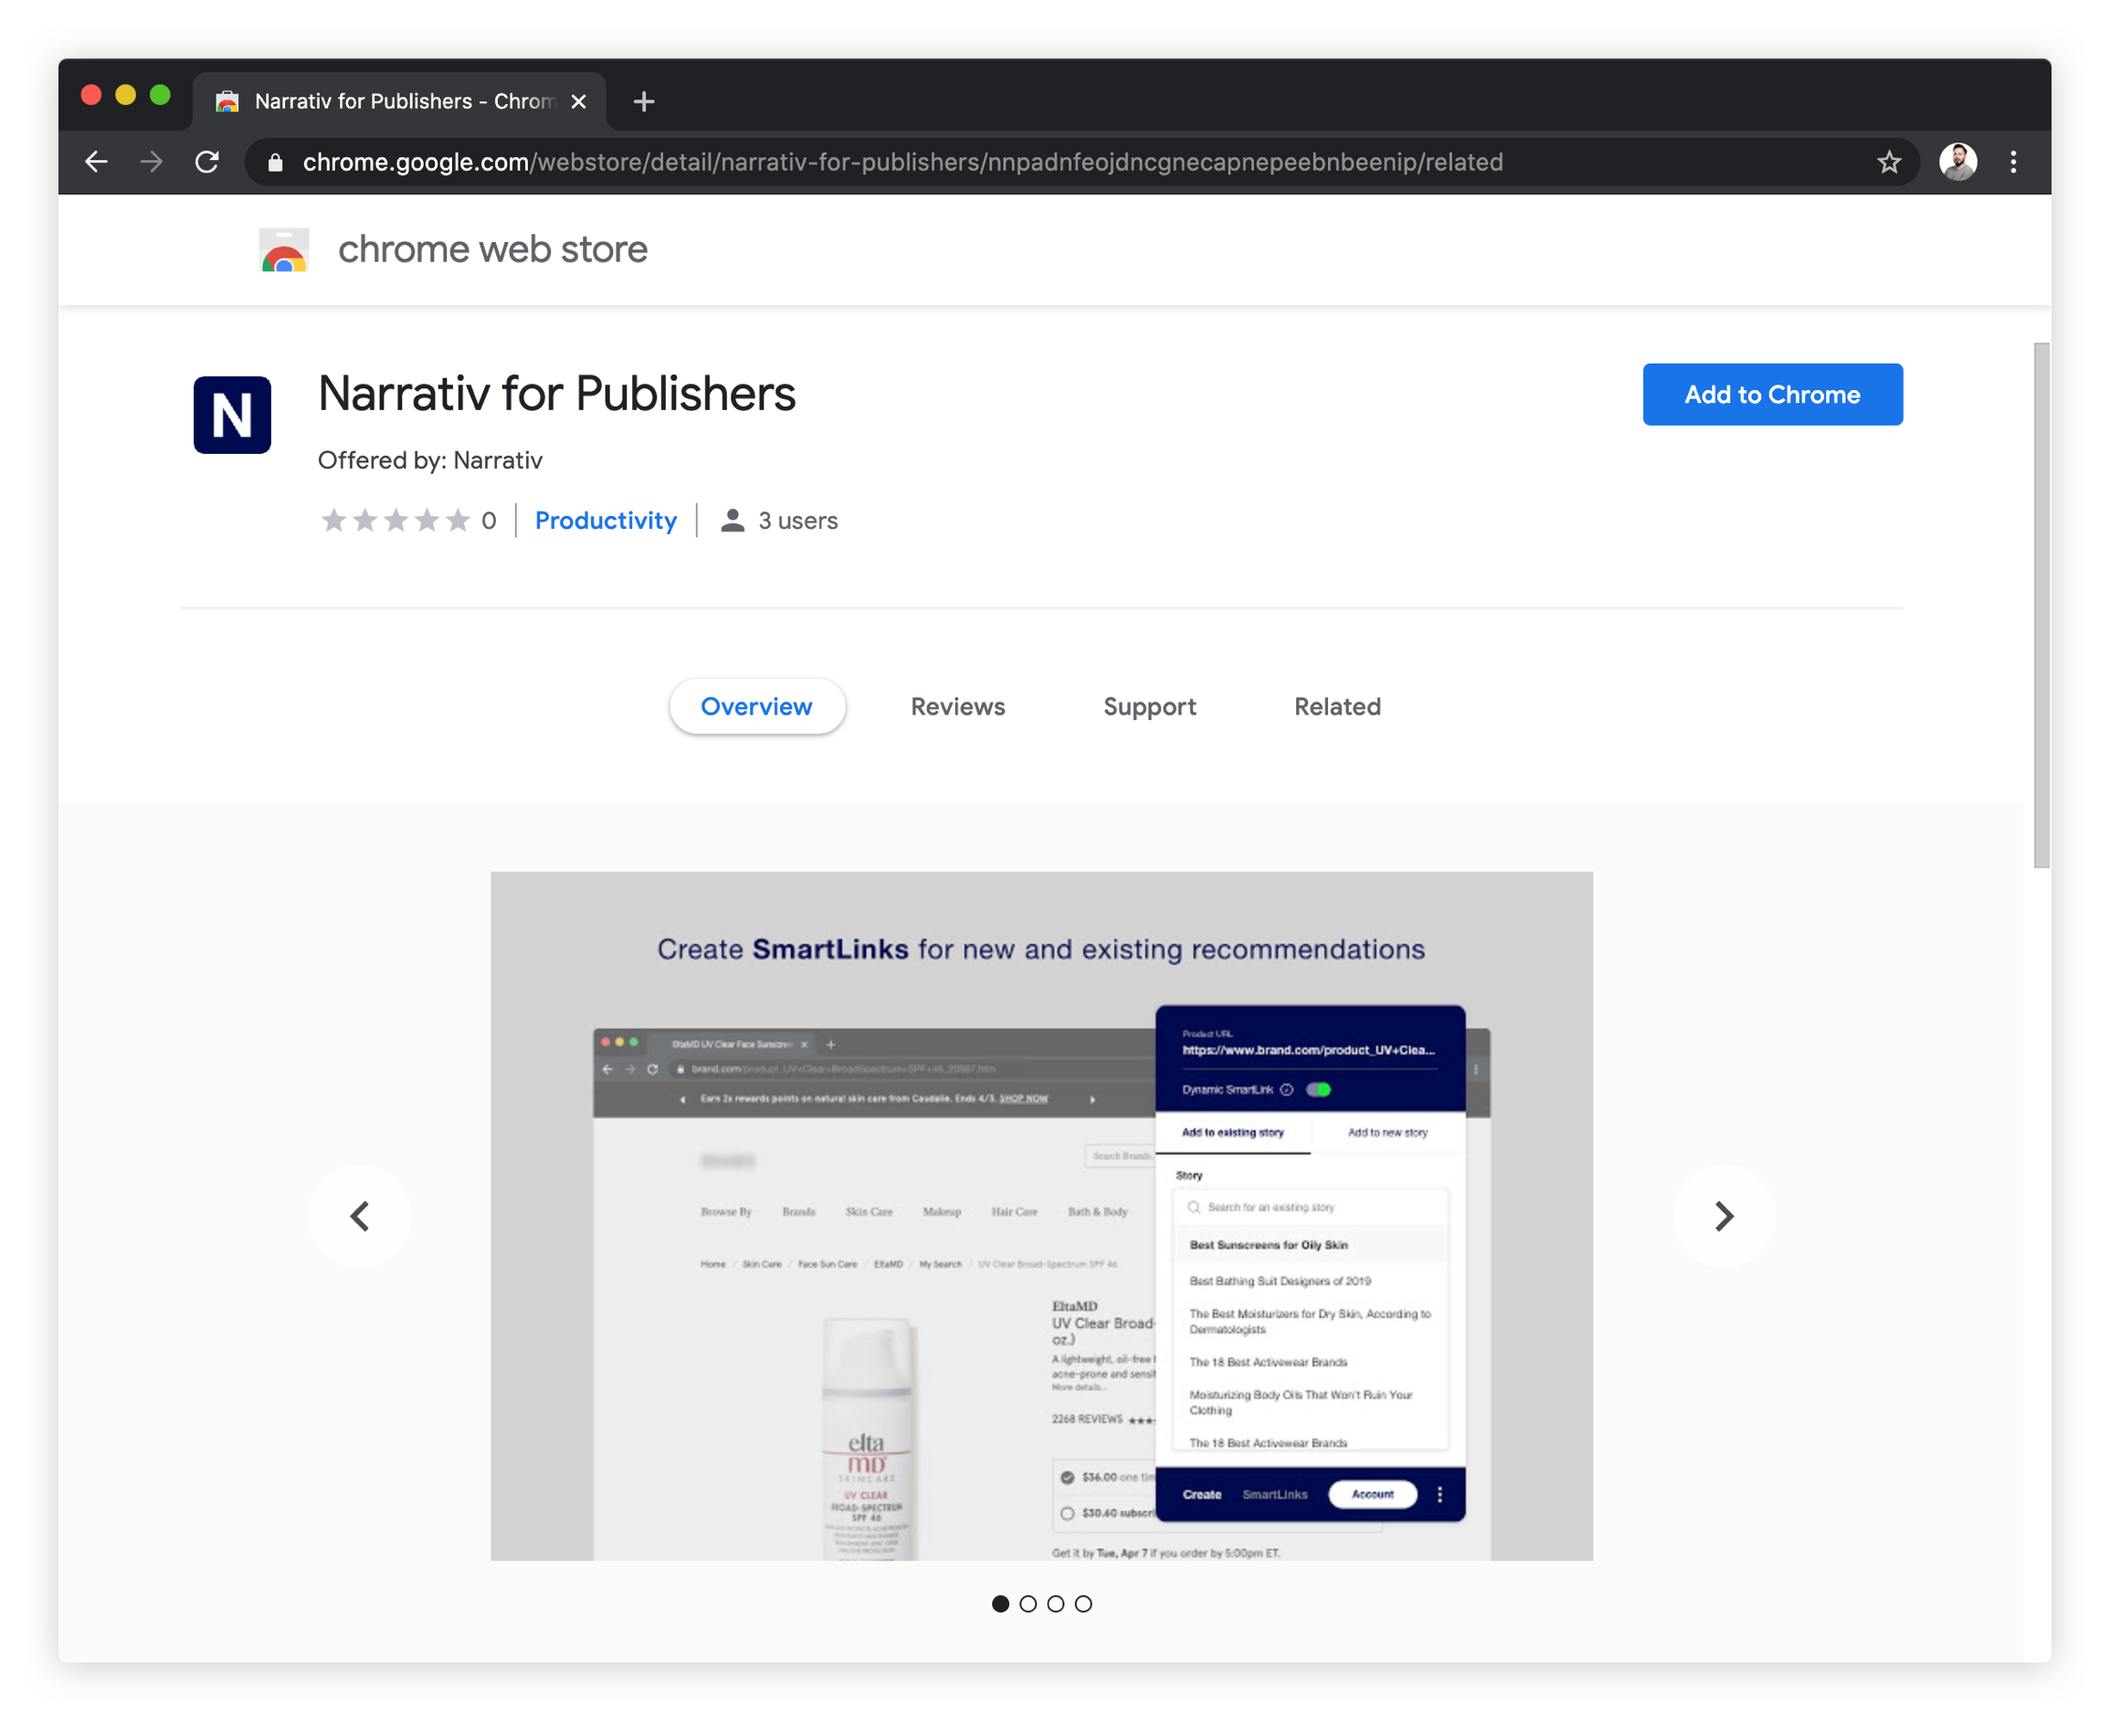
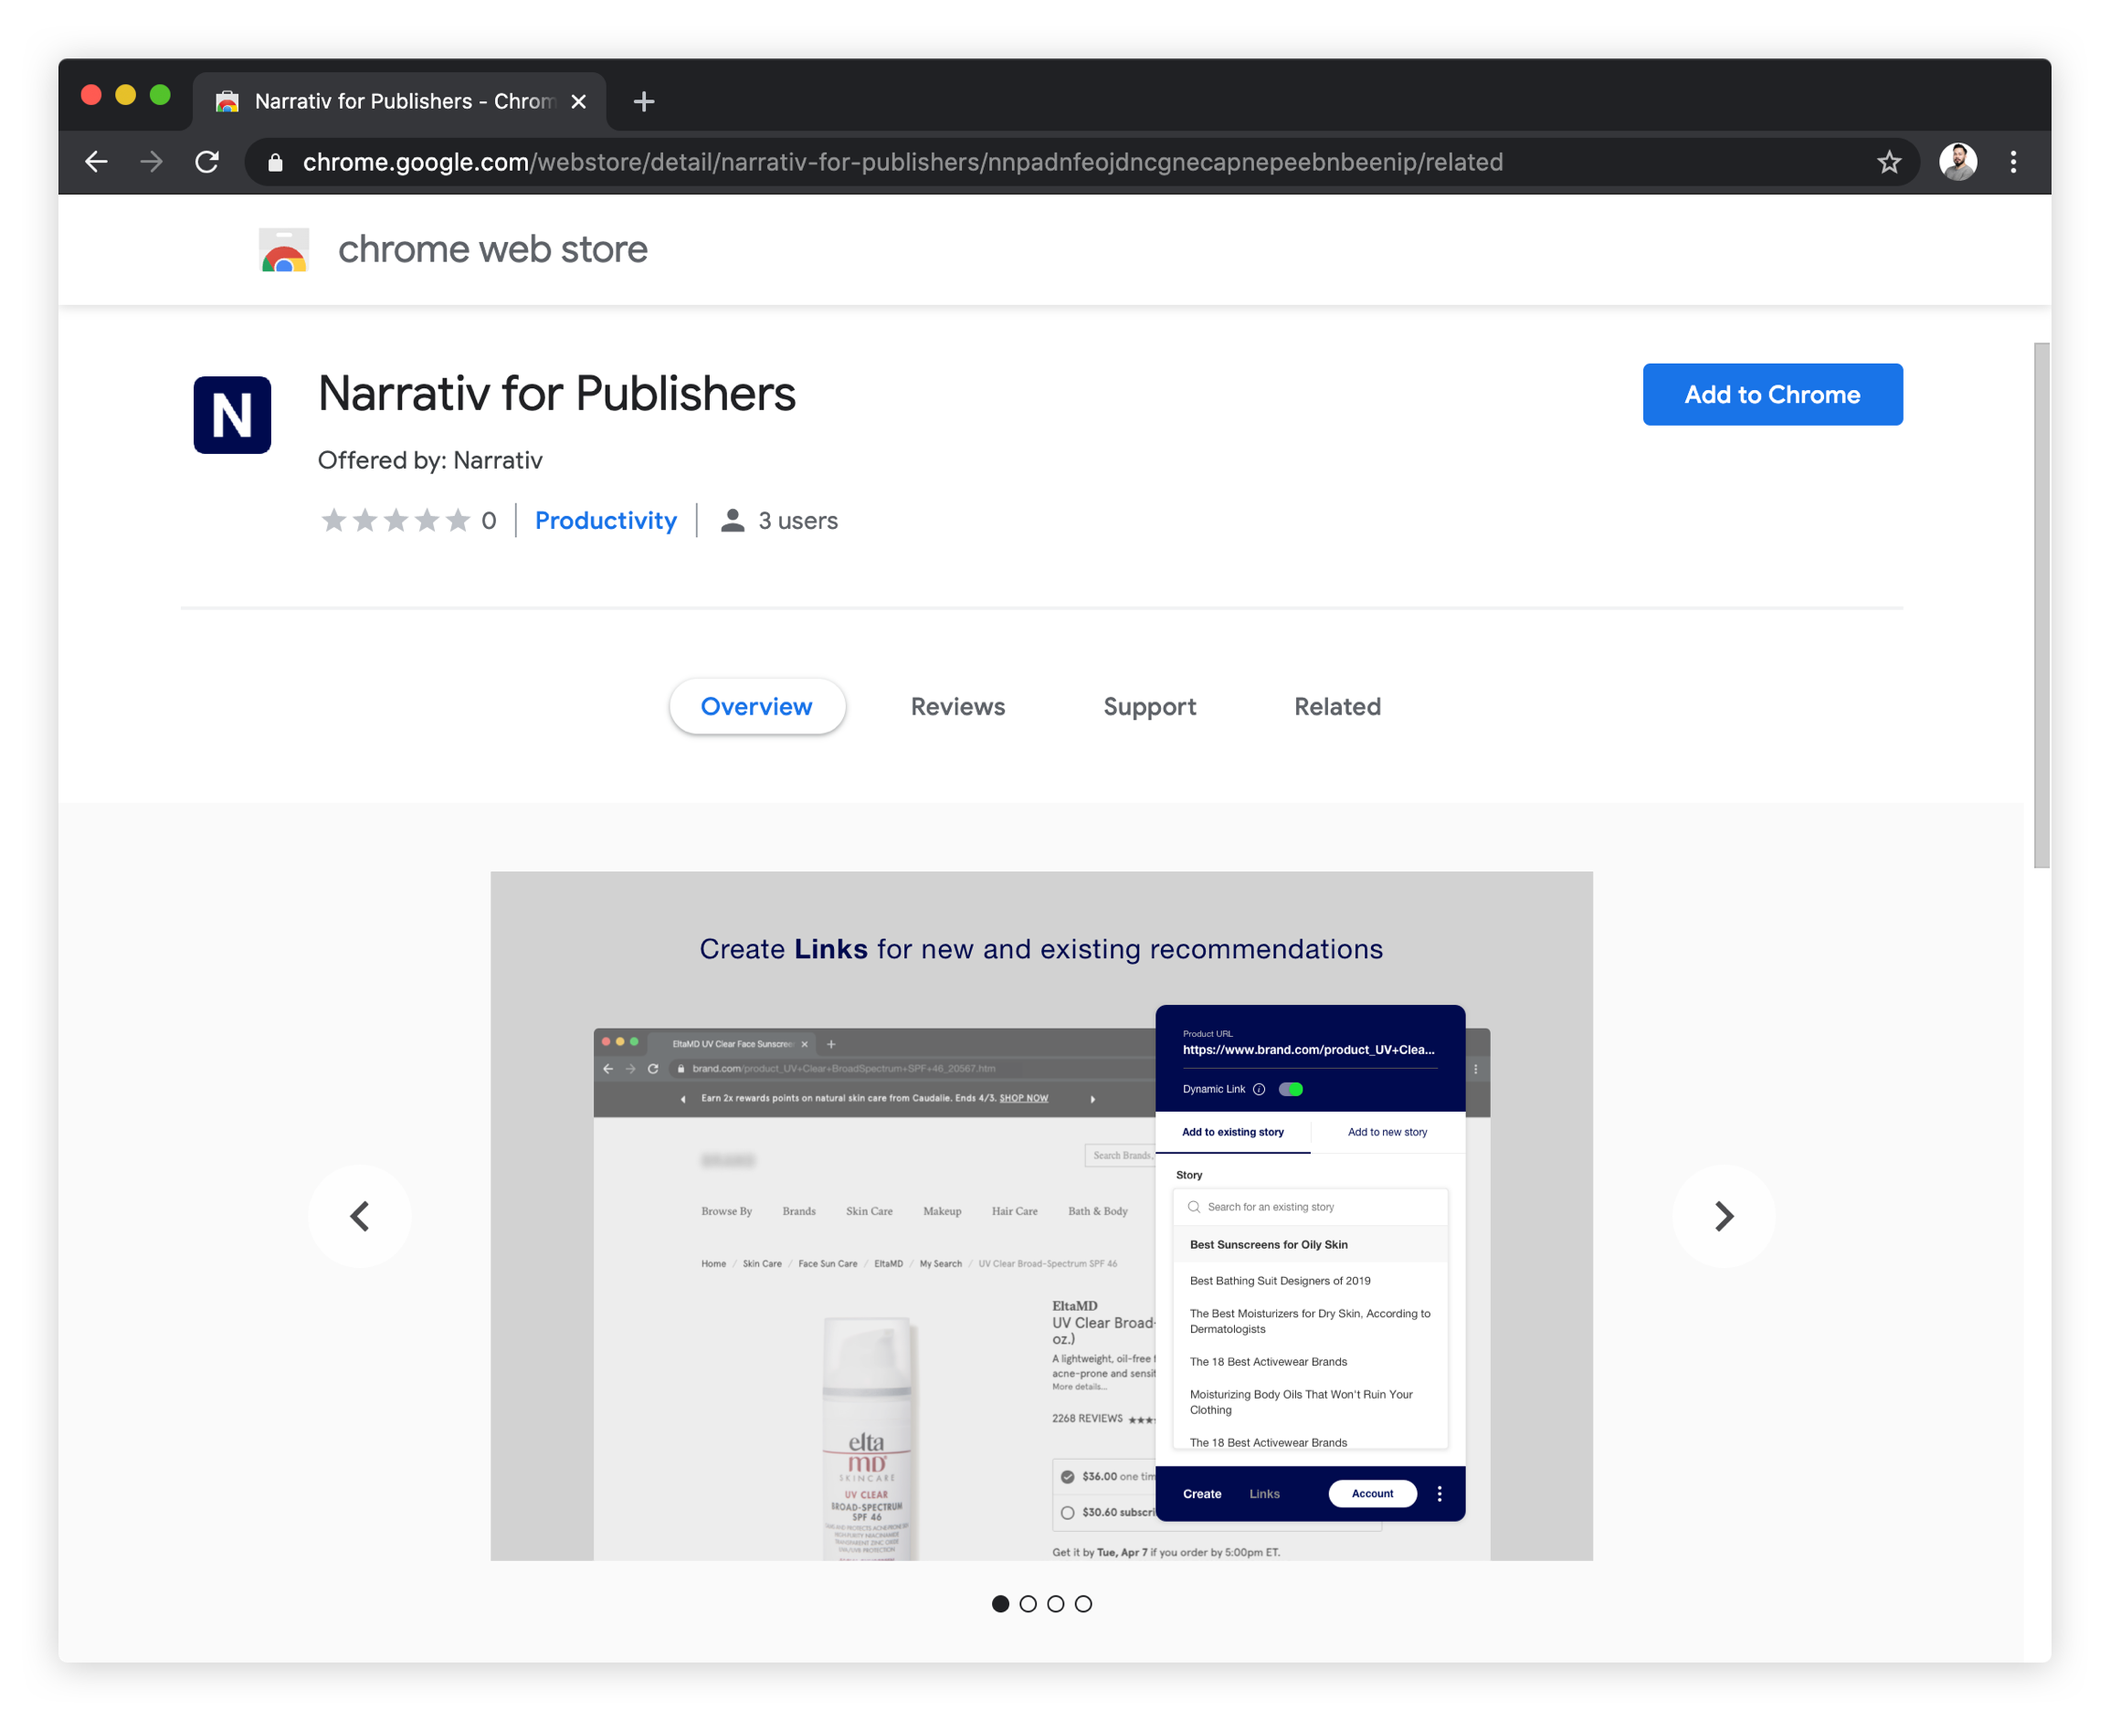
Update images for extension download

diff --git a/docs/conf.py b/docs/conf.py
@@ -54,9 +54,9 @@ author = 'Narrativ'
 # built documents.
 #
 # The short X.Y version. (major version 1 corresponds to /api/v1/)
-version = '1.9.7'
+version = '1.9.8'
 # The full version, including alpha/beta/rc tags.
-release = '1.9.7'
+release = '1.9.8'
 
 # The language for content autogenerated by Sphinx. Refer to documentation
 # for a list of supported languages.
